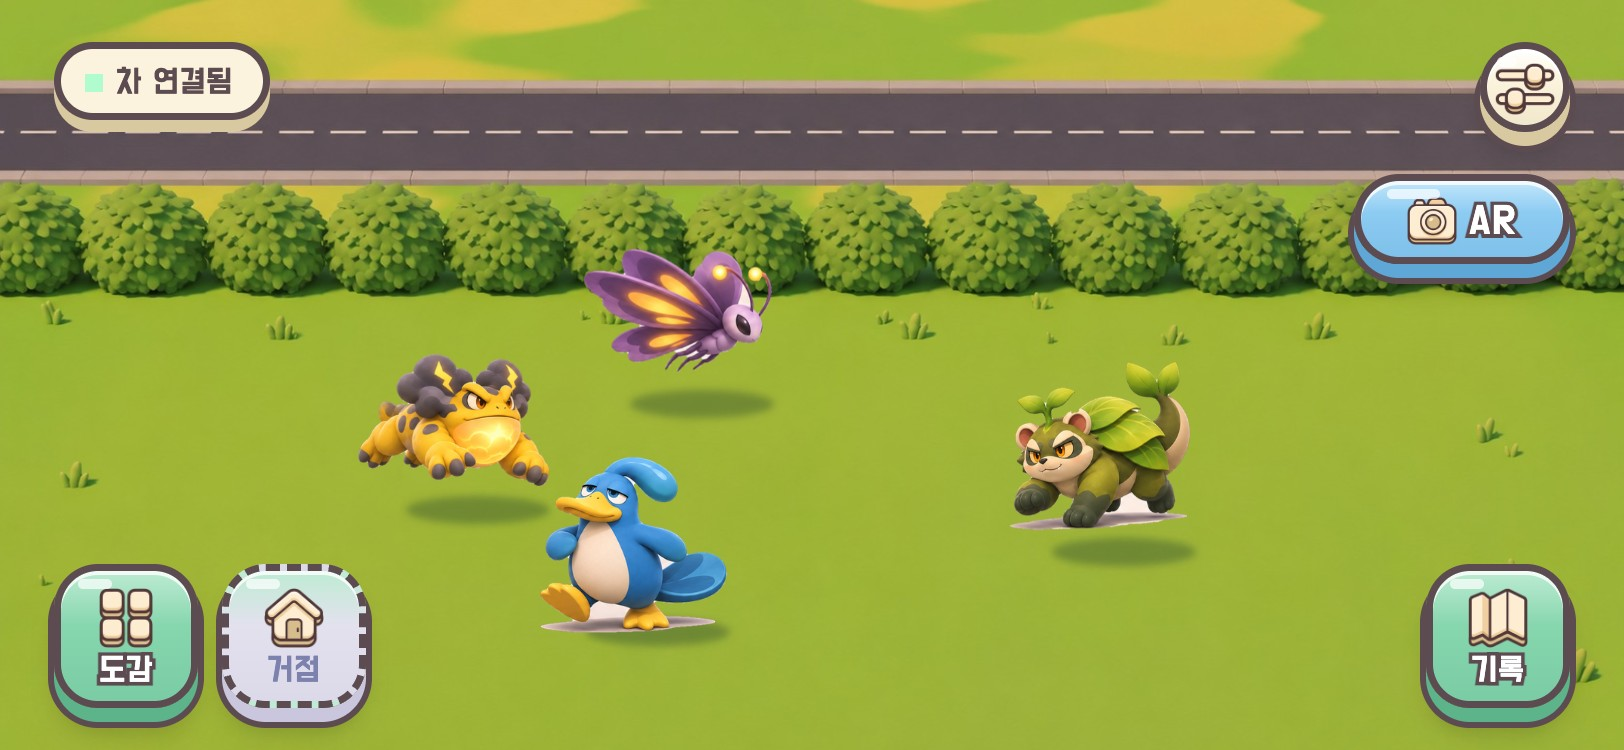
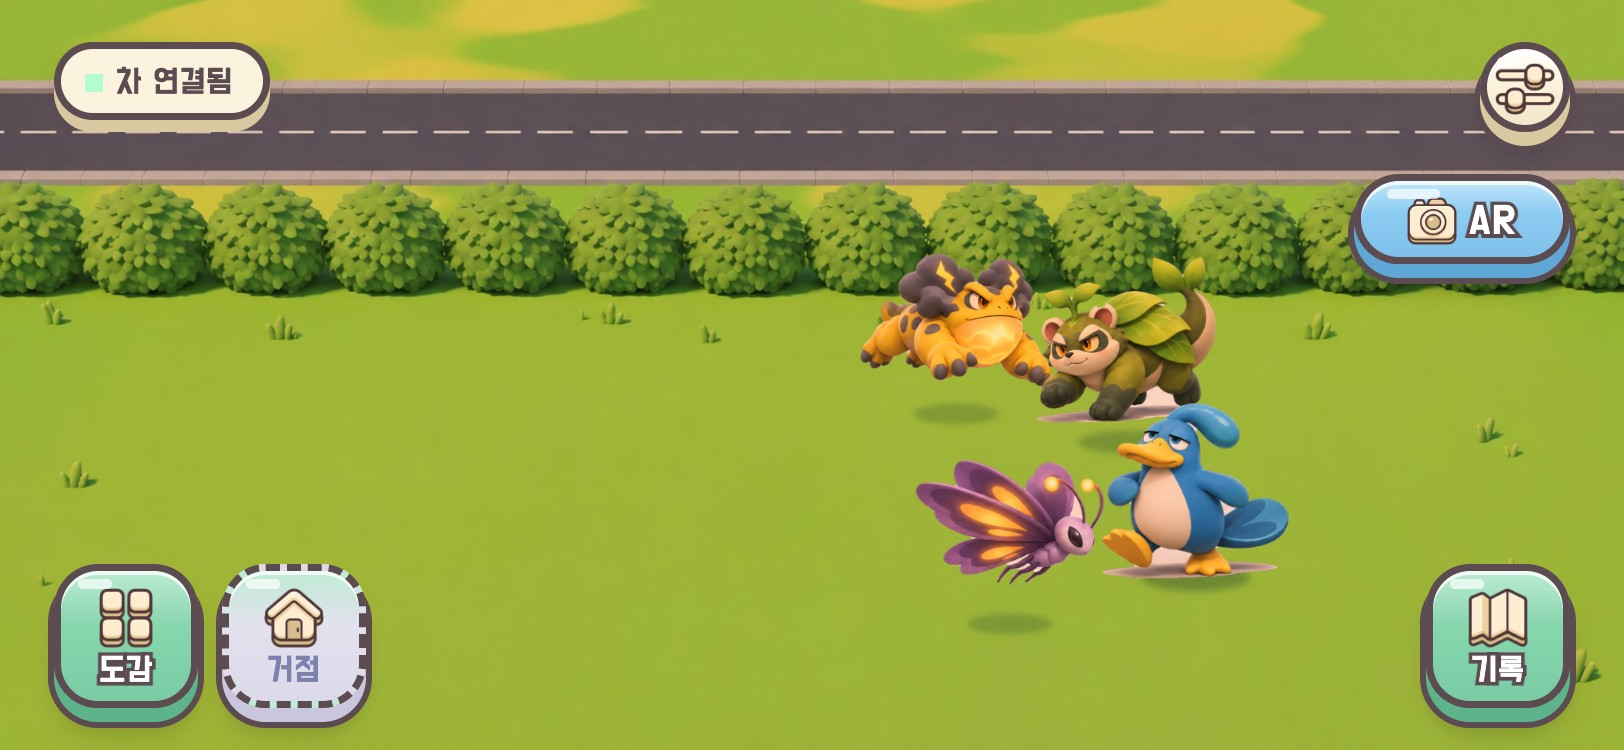
fix(mockup): tint home characters with the scene light and center their ground shadow under the feet

diff --git a/docs/mockups/v2/allo-flow.html b/docs/mockups/v2/allo-flow.html
@@ -71,8 +71,9 @@ button.px[disabled]{--bg:#B9D3C4;--sh:#9BB8A8;--fg:#EAF4EE;pointer-events:none}
 .wh{position:absolute;bottom:0;width:27px;height:27px;border-radius:50%;background:var(--N);z-index:31}.wh::after{content:"";position:absolute;inset:8px;border-radius:50%;background:var(--cream)}.wh.a{left:22px}.wh.b{right:22px}
 #cs{position:absolute;inset:0;z-index:15}
 .sp{position:absolute;width:96px;height:96px;margin:-90px 0 0 -48px;cursor:pointer}
-.sp img{width:96px;height:96px;object-fit:contain;display:block;pointer-events:none;position:relative}
-.sp::before{content:"";position:absolute;left:24px;right:0;bottom:-4px;height:14px;border-radius:50%;background:#1a3a2a59;filter:blur(2px)}
+.sp img{filter:url(#sptint);width:96px;height:96px;object-fit:contain;display:block;pointer-events:none;position:relative}
+.sp::before{content:"";position:absolute;left:50%;width:58px;margin-left:-29px;bottom:-5px;height:14px;border-radius:50%;background:#1a3a2a66;filter:blur(2px)}
+.sp.walk::before{animation:hsh .5s ease-in-out infinite}@keyframes hsh{50%{transform:scale(.72);opacity:.55}}
 .sp.walk img{transform-origin:50% 100%;animation:hop .5s ease-in-out infinite}@keyframes hop{0%,100%{transform:translateY(0) scaleY(1)}50%{transform:translateY(-8px) scaleY(1.05)}}
 .sp.fl img{filter:brightness(5)}.sp.hid{visibility:hidden}
 .sp.zz::after{content:"z z";position:absolute;right:0;top:4px;font:400 16px var(--fd);color:#fff}
@@ -392,6 +393,7 @@ button.px[disabled]{box-shadow:inset 0 2px 0 #ffffff80,0 4px 0 0 var(--sh),0 4px
  <div class="px band"><i>i</i><span>낚시는 아직 팀이 정하지 않았어요(#53). 자리만 잡은 화면이에요.</span></div>
 </section>
 
+<svg width="0" height="0" style="position:absolute"><filter id="sptint" color-interpolation-filters="sRGB"></filter></svg>
 <div id="zoom" class="toy"><div id="zdim"></div><img id="zimg" alt=""><div id="fx"></div>
  <div class="px" id="zname"></div><div class="px" id="zsay"></div><button class="px sm" id="zx" data-ic="x" aria-label="닫기"></button><div id="zhint">화면을 눌러 쓰다듬어 주세요</div></div>
 <div id="ar" class="toy"><div class="floor"></div><div class="ph">카메라 화면 (예시)</div><div class="gs"></div><img id="arch" alt="">
@@ -432,6 +434,7 @@ const NG=8;
 /* 풀밭 평면: u,v는 0~NG. 화면 x 50~762, y 168~358 */
 const P=(u,v)=>[50+u/NG*712,168+v/NG*190];
 function buildScene(){
+ const [tr,tg,tb]=[1,3,5].map(i=>(parseInt(TINT[st.tm].slice(i,i+2),16)/255).toFixed(3));$("#sptint").innerHTML=`<feColorMatrix type="matrix" values="${tr} 0 0 0 0  0 ${tg} 0 0 0  0 0 ${tb} 0 0  0 0 0 1 0"/>`;
  $("#scene").innerHTML=`<div class="bgimg"></div><img id="plat" src="assets/platform.png" alt="" style="left:238.3px;top:134.7px;width:349.7px"><div class="tint" style="background:${TINT[st.tm]}"></div>`;
  $("#dimm").style.background="linear-gradient(#14163a22,#14163a66)"}
 function setTheme(t){st.auto=t=="auto";st.tm=st.auto?clockTheme():t;buildScene();
